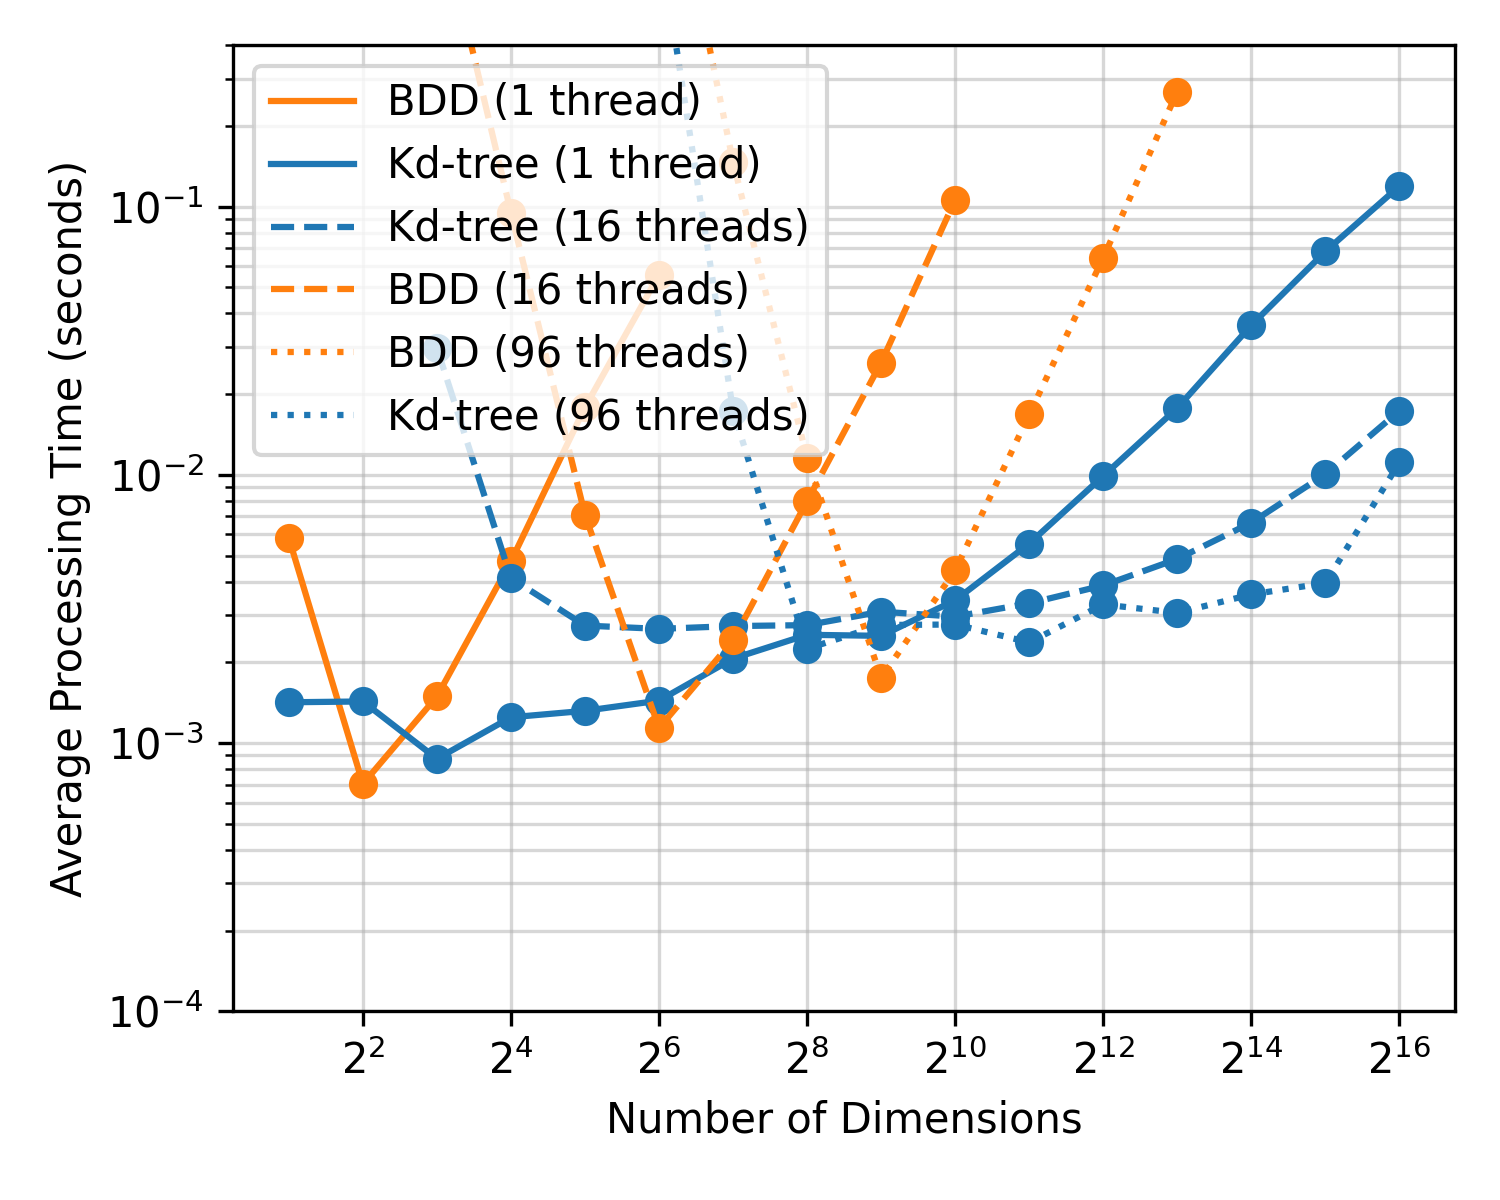
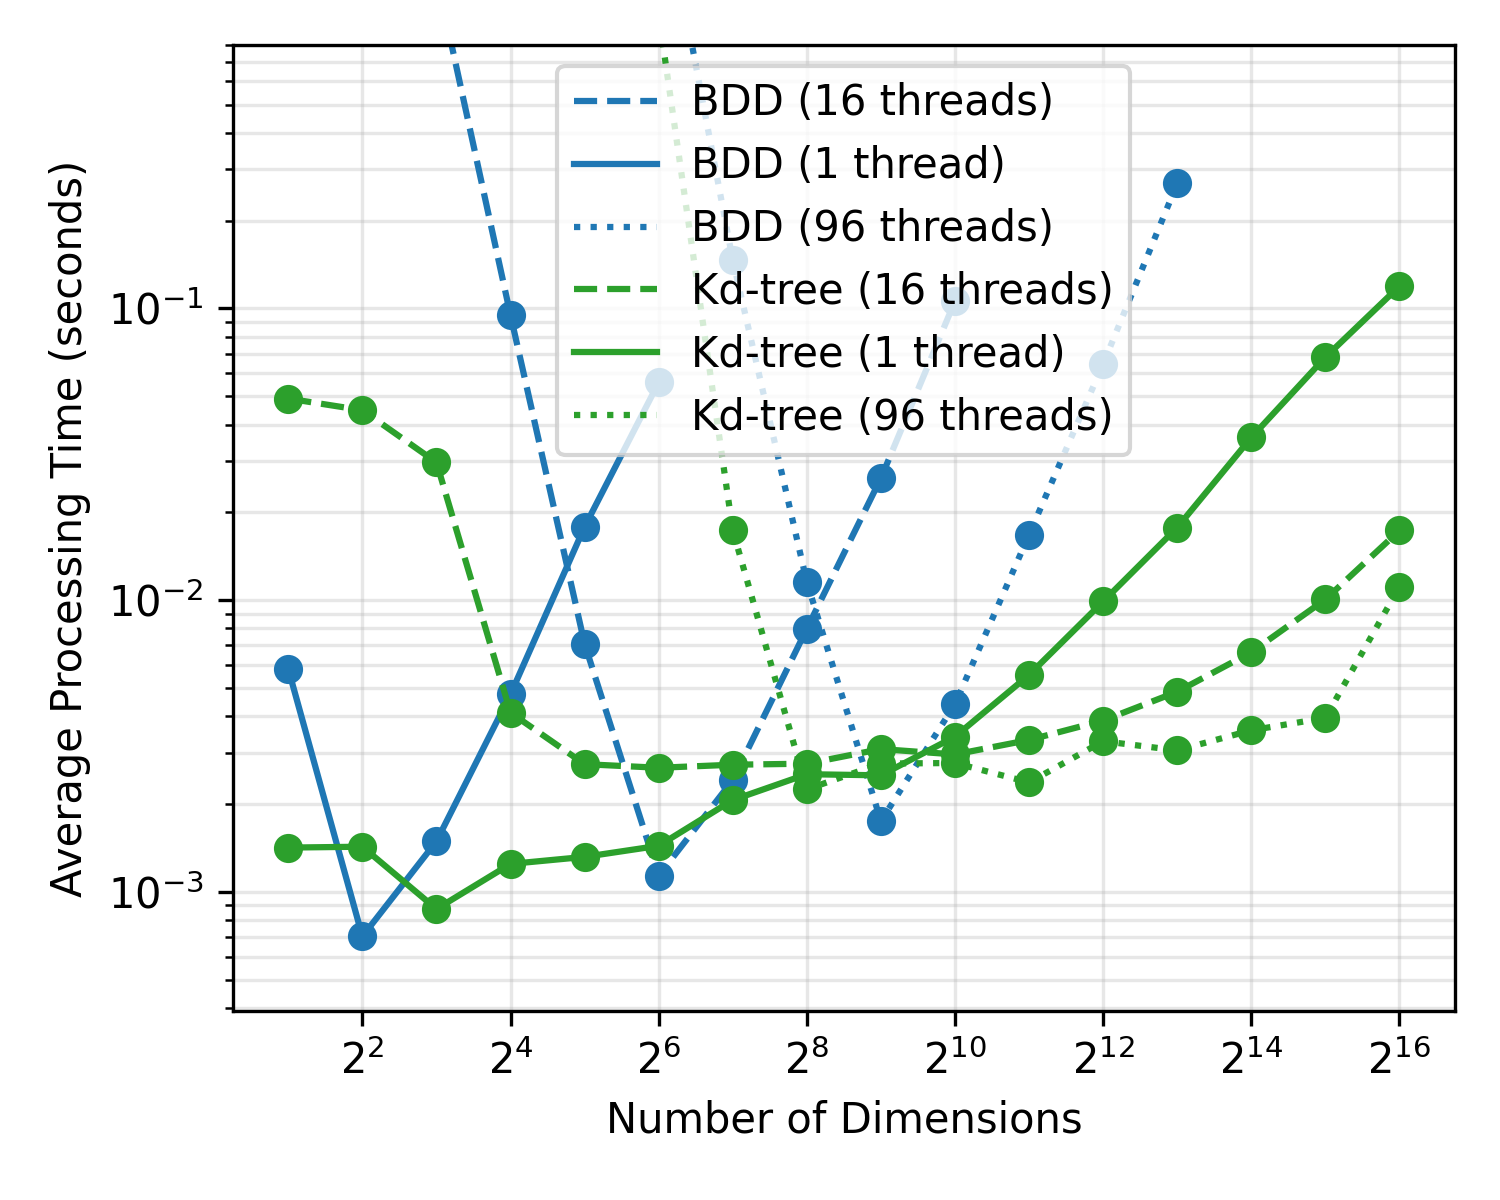
wip perf and par plot styling

diff --git a/results/par/plot.py b/results/par/plot.py
@@ -16,17 +16,16 @@ def get_average_time(json_path):
         #return np.mean(timings)
 
 results_dir = 'results'
-methods = os.listdir(results_dir)
+methods = sorted(os.listdir(results_dir))
 
 plt.figure(figsize=(5, 4))
 
 y_min = 0.0001
-y_max = 0.4
+y_max = 0.8
 
-# Use matplotlib's default colors
 colors = {
-    'kdtree': '#1f77b4',  # matplotlib default blue
-    'bdd': '#ff7f0e'      # matplotlib default orange
+    'bdd': '#1f77b4',  # matplotlib default blue
+    'kdtree': '#2ca02c'      # matplotlib default green
 }
 
 line_styles = {
@@ -80,10 +79,10 @@ for method in methods:
 
 plt.xscale('log', base=2)
 plt.yscale('log')
-plt.ylim(y_min, y_max)
+plt.ylim(top=y_max)
 plt.xlabel('Number of Dimensions')
 plt.ylabel('Average Processing Time (seconds)')
-plt.grid(True, which="both", ls="-", alpha=0.5)
+plt.grid(True, which="both", ls="-", alpha=0.3)
 plt.legend()
 plt.tight_layout()
 plt.savefig('dimensions.png', dpi=300)

diff --git a/results/performance/plot.py b/results/performance/plot.py
@@ -90,7 +90,7 @@ plt.figure(figsize=(5, 3))
 for item in data:
     x = np.arange(len(item['timings'][args.omit_beginning:]))[::1000]
     y = rolling_average(item['timings'][args.omit_beginning:], args.windowsize)[::1000]
-    plt.plot(x, y, label=item["name"])
+    plt.plot(x, y, '-' if item['paralleliation'] == '1' else '--', label=item["name"])
 
 plt.xlabel('Sample')
 plt.ylabel('Time (seconds)')
